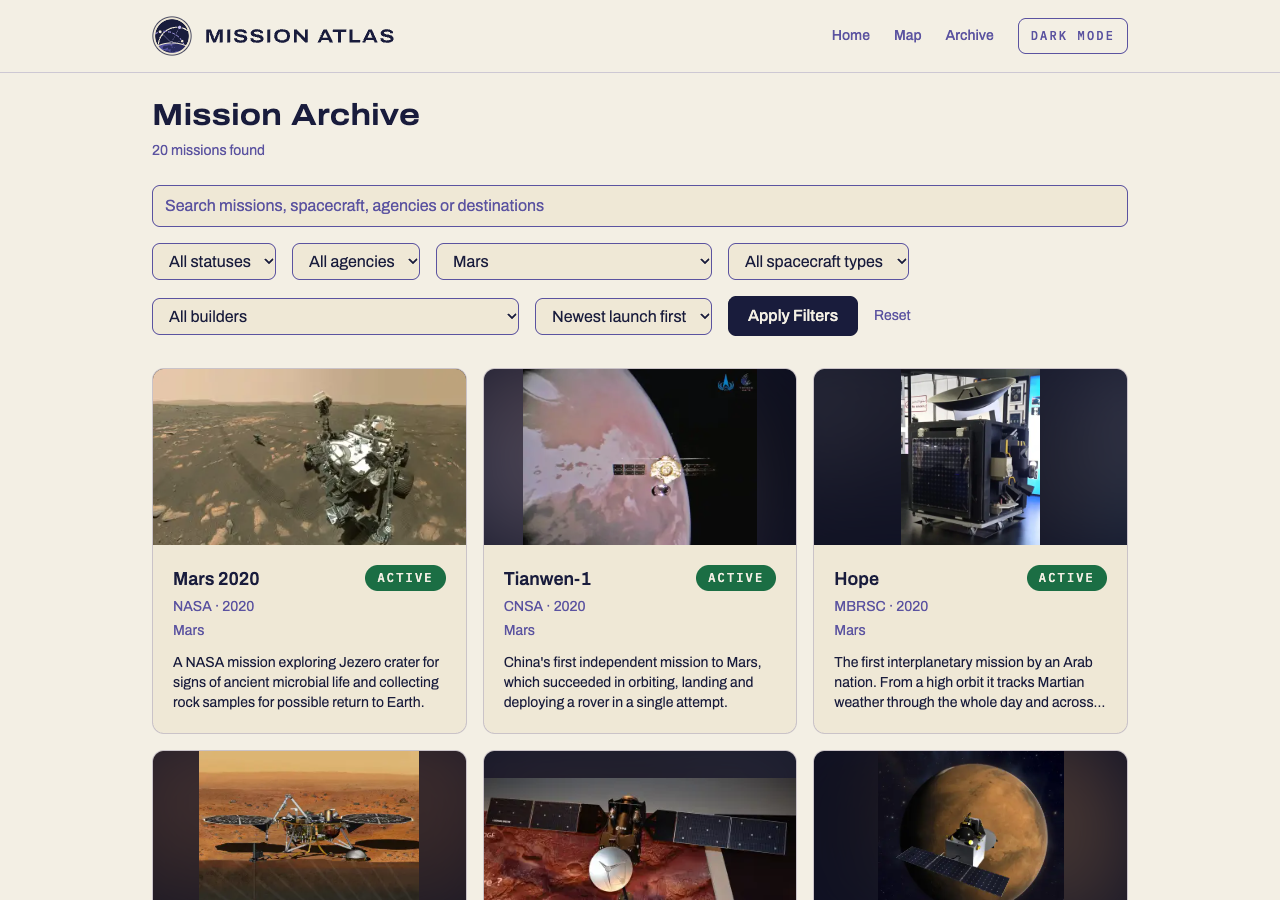
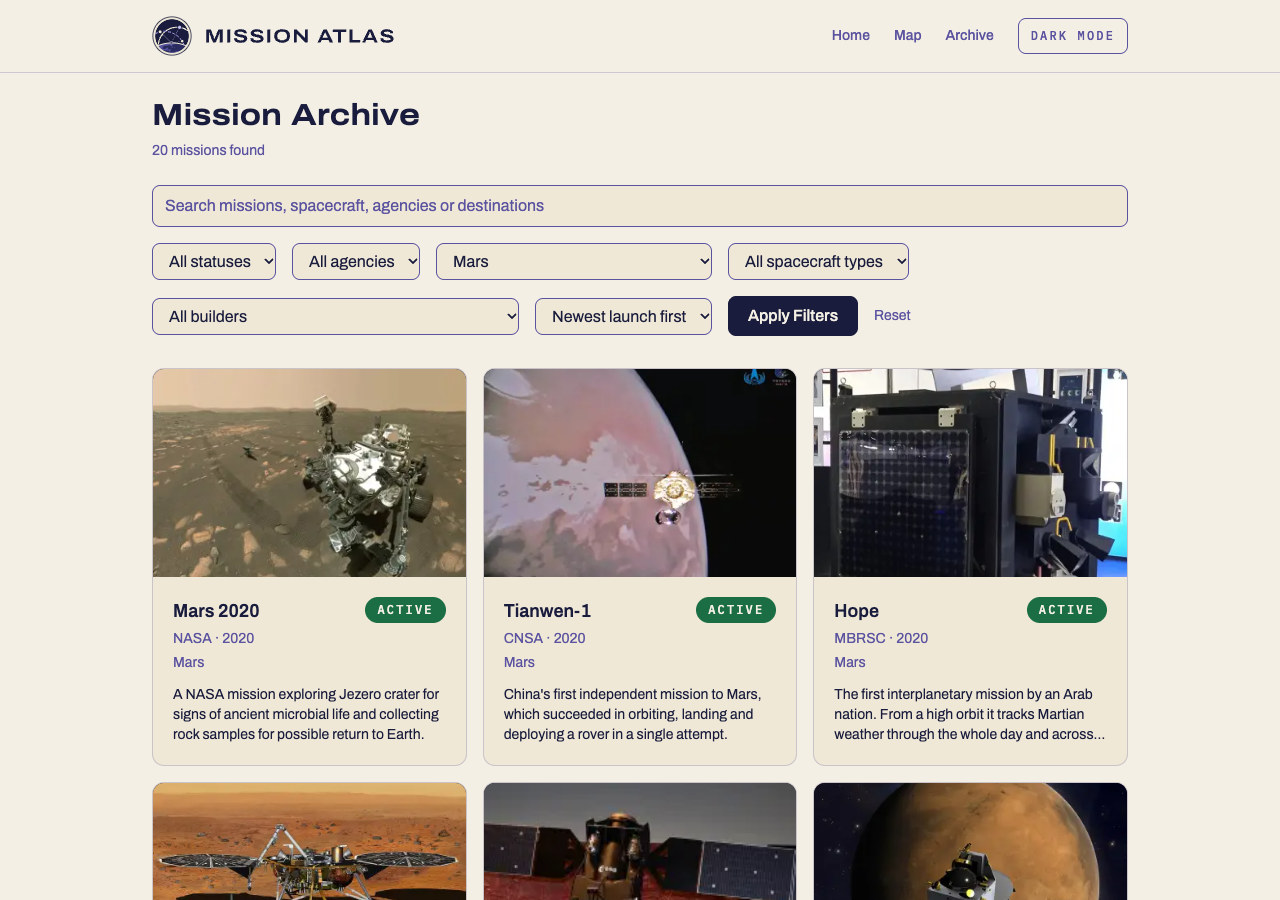
Mission pictures fill their frames
Tiles and the map card crop the picture to fill a 3:2 frame instead of
showing it whole over a blurred copy. On mission pages the picture moves
beside the title, at its own shape within 416 x 288 px, so none is
cropped; it sits under the title on narrower screens.

The import script now records each picture's size, kept in new
imageWidth and imageHeight columns on Mission.

Changed region(s): [[0.0938, 0.4044, 0.9062, 1.0], [0.4688, 0.4044, 0.5, 0.4356]]

diff --git a/src/app/missions/[slug]/page.tsx b/src/app/missions/[slug]/page.tsx
@@ -1,8 +1,9 @@
 import type { Metadata } from "next";
+import Image from "next/image";
 import Link from "next/link";
 import { notFound } from "next/navigation";
 import { cache, Fragment } from "react";
-import MissionImage, { ImageCredit } from "@/components/mission-image";
+import { ImageCredit } from "@/components/mission-image";
 import SpacecraftTile from "@/components/spacecraft-tile";
 import StatusBadge from "@/components/status-badge";
 import { prisma } from "@/lib/prisma";
@@ -55,6 +56,20 @@ export async function generateMetadata({
 
 const linkClasses = "text-accent hover:underline";
 
+// The picture beside the title keeps its own shape, as large as fits in this
+// box, so none is cropped.
+const PICTURE_WIDTH = 416;
+const PICTURE_HEIGHT = 288;
+
+function fitPicture(width: number, height: number) {
+  const scale = Math.min(PICTURE_WIDTH / width, PICTURE_HEIGHT / height, 1);
+
+  return {
+    width: Math.round(width * scale),
+    height: Math.round(height * scale),
+  };
+}
+
 function Fact({
   label,
   children,
@@ -87,6 +102,13 @@ export default async function MissionDetailPage({ params }: PageProps) {
   }
 
   const duration = missionDuration(mission);
+  const picture =
+    mission.imageUrl && mission.imageWidth && mission.imageHeight
+      ? {
+          src: mission.imageUrl,
+          ...fitPicture(mission.imageWidth, mission.imageHeight),
+        }
+      : null;
 
   return (
     <main className="mx-auto max-w-5xl px-6 py-10">
@@ -97,53 +119,57 @@ export default async function MissionDetailPage({ params }: PageProps) {
         ← Mission archive
       </Link>
 
-      <header className="mt-6">
-        <p className="label-caps text-muted">
-          {disciplineLabels[mission.discipline]}
-        </p>
+      <header className="mt-6 flex flex-col gap-8 lg:flex-row lg:items-start lg:justify-between">
+        <div>
+          <p className="label-caps text-muted">
+            {disciplineLabels[mission.discipline]}
+          </p>
 
-        <div className="mt-2 flex flex-wrap items-center gap-x-4 gap-y-2">
-          <h1 className="font-display text-4xl">{mission.name}</h1>
-          <StatusBadge status={mission.status} />
+          <div className="mt-2 flex flex-wrap items-center gap-x-4 gap-y-2">
+            <h1 className="font-display text-4xl">{mission.name}</h1>
+            <StatusBadge status={mission.status} />
+          </div>
+
+          <p className="mt-3">
+            {mission.agencies.map((agency, i) => (
+              <Fragment key={agency.id}>
+                {i > 0 && <span className="text-muted"> · </span>}
+                <Link
+                  href={`/missions?agency=${encodeURIComponent(agency.abbreviation)}`}
+                  title={agency.name}
+                  className={linkClasses}
+                >
+                  {agency.abbreviation}
+                </Link>
+              </Fragment>
+            ))}
+          </p>
+
+          <Link
+            href={`/map?mission=${mission.slug}`}
+            className="mt-5 inline-block rounded-lg bg-button px-5 py-2 font-medium text-button-text transition-opacity hover:opacity-90"
+          >
+            See where it is now →
+          </Link>
         </div>
 
-        <p className="mt-3">
-          {mission.agencies.map((agency, i) => (
-            <Fragment key={agency.id}>
-              {i > 0 && <span className="text-muted"> · </span>}
-              <Link
-                href={`/missions?agency=${encodeURIComponent(agency.abbreviation)}`}
-                title={agency.name}
-                className={linkClasses}
-              >
-                {agency.abbreviation}
-              </Link>
-            </Fragment>
-          ))}
-        </p>
-
-        <Link
-          href={`/map?mission=${mission.slug}`}
-          className="mt-5 inline-block rounded-lg bg-button px-5 py-2 font-medium text-button-text transition-opacity hover:opacity-90"
-        >
-          See where it is now →
-        </Link>
+        {picture && (
+          <figure className="w-fit shrink-0">
+            <Image
+              src={picture.src}
+              alt={mission.name}
+              width={picture.width}
+              height={picture.height}
+              preload
+              className="h-auto max-w-full rounded-xl border border-border bg-picture"
+            />
+            {/* The credit wraps to the picture's width. */}
+            <figcaption className="w-0 min-w-full">
+              <ImageCredit mission={mission} className="mt-2" />
+            </figcaption>
+          </figure>
+        )}
       </header>
-
-      {mission.imageUrl && (
-        <figure className="mt-8">
-          <MissionImage
-            src={mission.imageUrl}
-            alt={mission.name}
-            sizes="(min-width: 1024px) 976px, 100vw"
-            preload
-            className="aspect-[16/9] rounded-xl border border-border sm:aspect-[2/1]"
-          />
-          <figcaption>
-            <ImageCredit mission={mission} className="mt-2" />
-          </figcaption>
-        </figure>
-      )}
 
       <dl className="mt-8 grid grid-cols-[repeat(auto-fit,minmax(11rem,1fr))] gap-4">
         <Fact label="Launched">

diff --git a/src/components/mission-image.tsx b/src/components/mission-image.tsx
@@ -1,38 +1,18 @@
 import Image from "next/image";
 
-// A mission's picture, shown whole whatever its shape: the frame sets the
-// shape, and a blurred copy of the picture fills the space beside it. Both
-// copies ask for the same sizes, so the browser downloads it once.
+// A mission's picture filling a frame of the given shape, cropped to fit.
 export default function MissionImage({
   src,
-  alt = "",
   sizes,
-  preload = false,
   className = "",
 }: {
   src: string;
-  alt?: string;
   sizes: string;
-  preload?: boolean;
   className?: string;
 }) {
   return (
     <div className={`relative overflow-hidden bg-picture ${className}`}>
-      <Image
-        src={src}
-        alt=""
-        fill
-        sizes={sizes}
-        className="scale-125 object-cover opacity-40 blur-2xl"
-      />
-      <Image
-        src={src}
-        alt={alt}
-        fill
-        sizes={sizes}
-        preload={preload}
-        className="object-contain"
-      />
+      <Image src={src} alt="" fill sizes={sizes} className="object-cover" />
     </div>
   );
 }

diff --git a/src/components/mission-tile.tsx b/src/components/mission-tile.tsx
@@ -19,10 +19,10 @@ export default function MissionTile({ mission }: { mission: MissionTileData }) {
         <MissionImage
           src={mission.imageUrl}
           sizes="(min-width: 1024px) 320px, (min-width: 640px) 50vw, 100vw"
-          className="aspect-[16/9]"
+          className="aspect-[3/2]"
         />
       ) : (
-        <div className="flex aspect-[16/9] items-center justify-center bg-picture">
+        <div className="flex aspect-[3/2] items-center justify-center bg-picture">
           <Image
             src="/brand/mission-atlas-mark-small.svg"
             alt=""

diff --git a/prisma/seed.ts b/prisma/seed.ts
@@ -123,6 +123,8 @@ async function main() {
           endDeclared: toDate(mission.endDeclared),
           description: mission.description,
           imageUrl: image?.url ?? null,
+          imageWidth: image?.width ?? null,
+          imageHeight: image?.height ?? null,
           imageCredit: image?.author ?? null,
           imageLicense: image?.license ?? null,
           imageLicenseUrl: image?.licenseUrl ?? null,

diff --git a/src/components/featured-missions.tsx b/src/components/featured-missions.tsx
@@ -33,7 +33,7 @@ export default function FeaturedMissions({
               aria-hidden
               className="overflow-hidden rounded-xl border border-border bg-surface"
             >
-              <div className="aspect-[16/9] bg-picture" />
+              <div className="aspect-[3/2] bg-picture" />
               <div className="h-44" />
             </div>
           ))}

diff --git a/src/components/map/mission-map.tsx b/src/components/map/mission-map.tsx
@@ -1477,7 +1477,7 @@ function InfoCard({
             <MissionImage
               src={mission.imageUrl}
               sizes="(min-width: 640px) 344px, 100vw"
-              className="aspect-[2/1] rounded-lg"
+              className="aspect-[3/2] rounded-lg"
             />
             <figcaption>
               <ImageCredit mission={mission} className="mt-1.5" />

diff --git a/scripts/import-images.ts b/scripts/import-images.ts
@@ -206,9 +206,13 @@ async function main() {
       downloaded++;
     }
 
+    const { width, height } = await sharp(path.join(PUBLIC, url!)).metadata();
+
     records[mission.slug] = {
       file,
       url: url!,
+      width,
+      height,
       author: credit || "Unknown",
       license,
       licenseUrl: info.extmetadata?.LicenseUrl?.value ?? null,

diff --git a/prisma/data/images.ts b/prisma/data/images.ts
@@ -7,6 +7,8 @@ export type ImageRecord = {
   file: string;
   // Where the site serves it, under public/.
   url: string;
+  width: number;
+  height: number;
   author: string;
   license: string;
   // Public domain files have no licence page.
